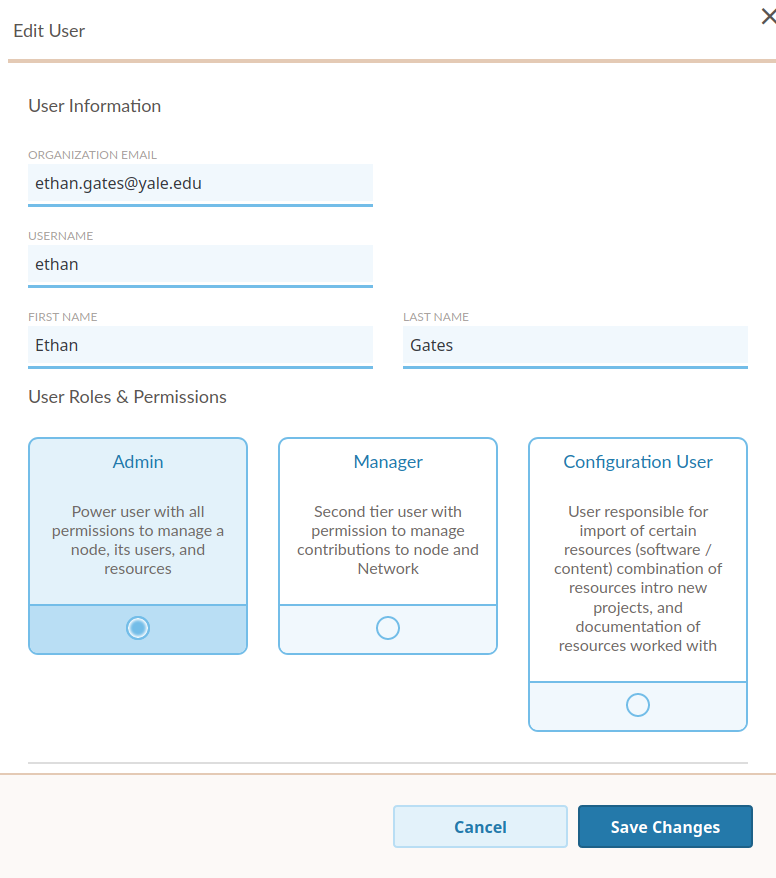
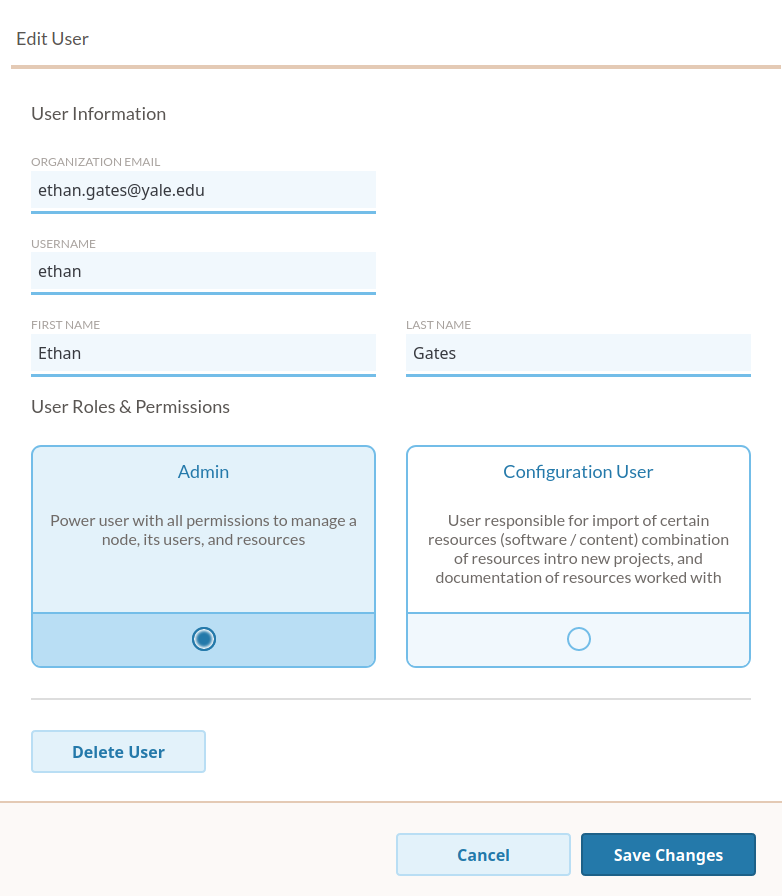
edit screenshots
updates to reflect changes to the UI design since last release

diff --git a/source/guide/my-resources.rst b/source/guide/my-resources.rst
@@ -14,6 +14,3 @@ As on the :ref:`explore` page, you can use the Refine Your Results page to sort 
 By default, the My Resources page will open on the "My Bookmarks" tab, but users can also navigate to the "Imported Resources" tab to view and track Software and Content resources that they have individually imported to the node:
 
 .. image:: ../images/imported_resources.png
-
-.. note::
-  "My Contributions" under development - Environment resources will be tracked and associated with the individual user who created them within the EaaSI platform - allowing for more granular quality control by Admin/Manager-level users and for users to further track their own work using the "My Contributions" tab.
